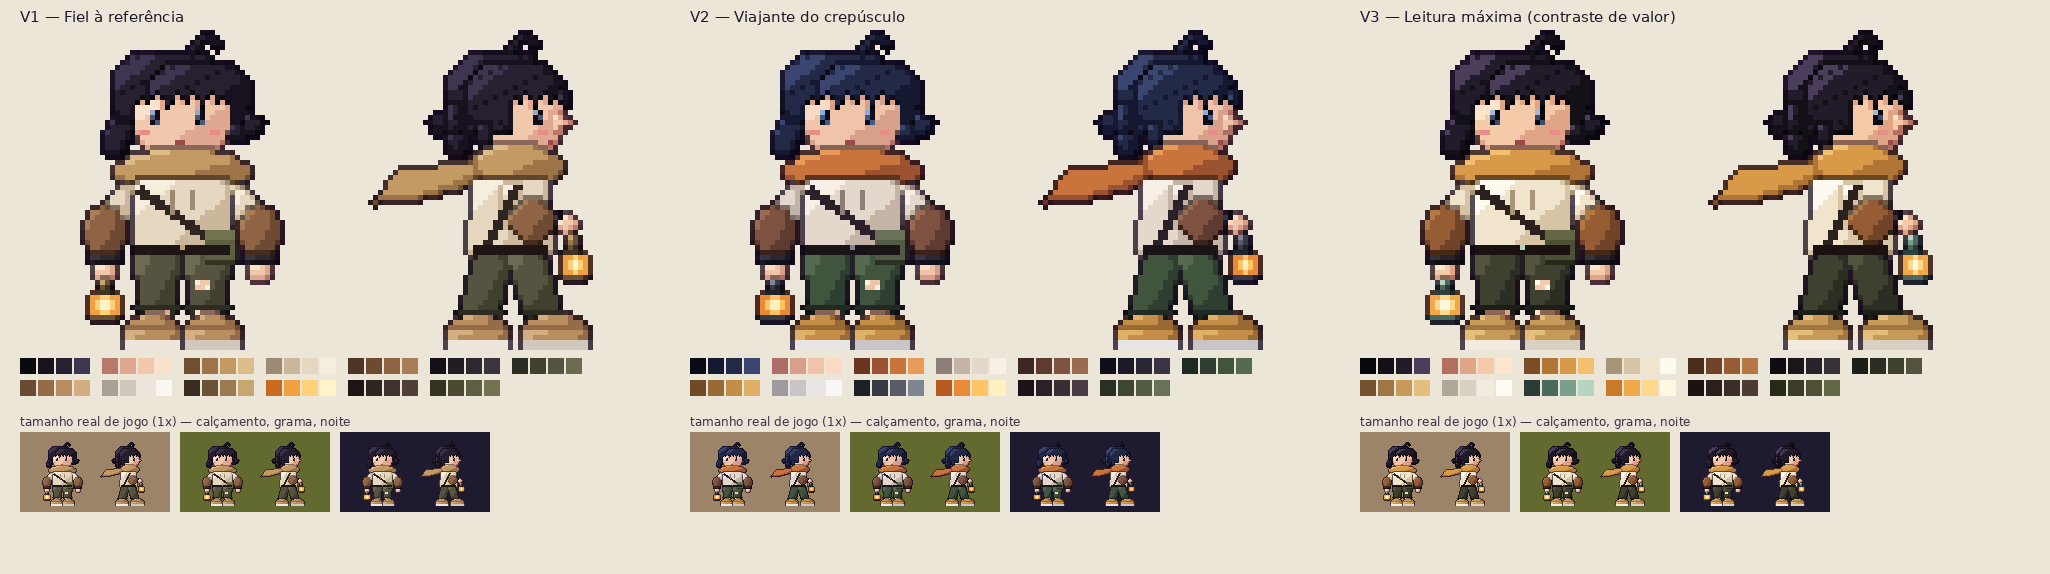
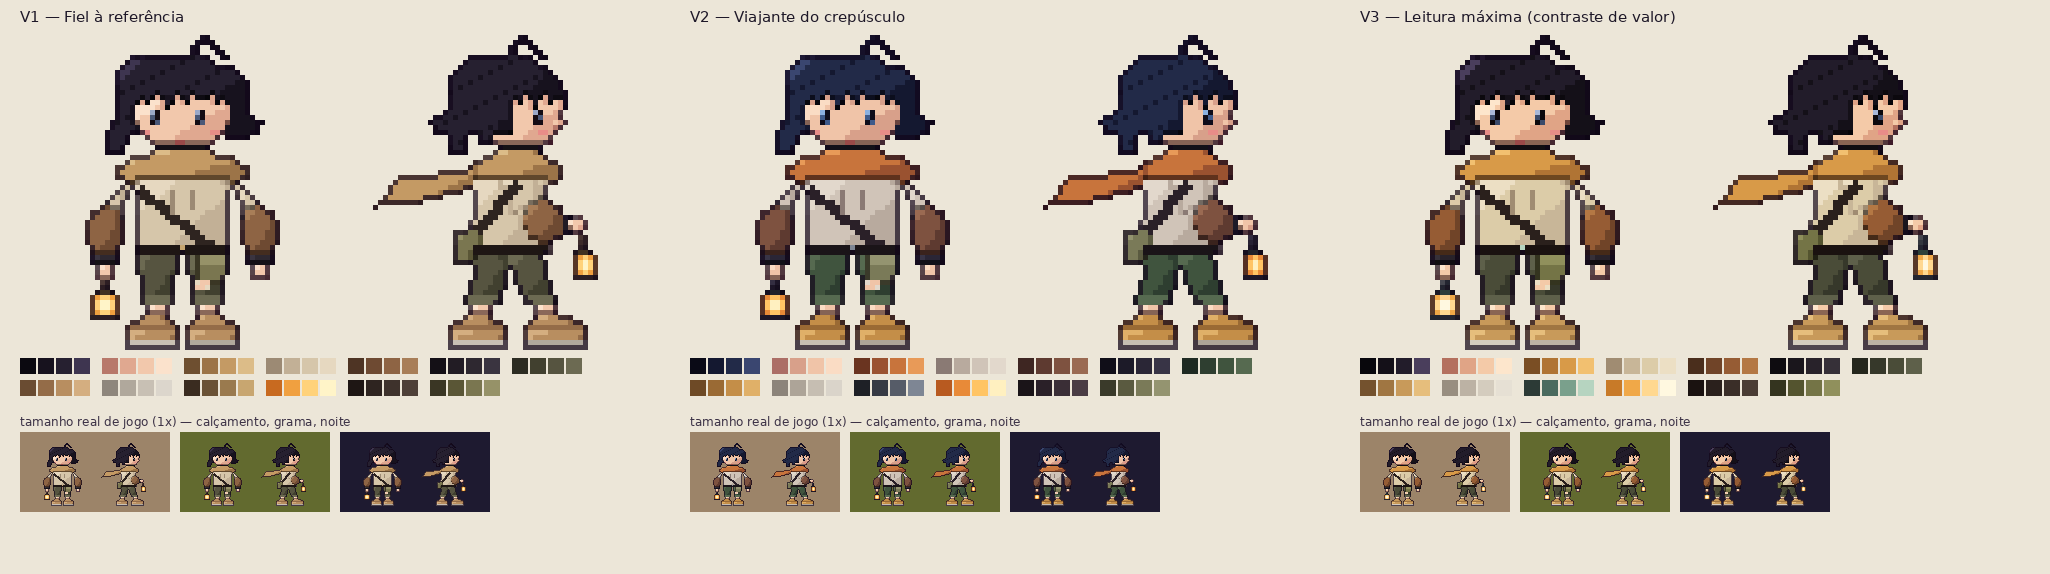
Hero: color concepts v2 (inward outline matches silhouette, turtleneck, side arm, bag, cuffs, open hook strand, lower sweater values)
Claude-Session: https://claude.ai/code/session_01SH8uRb7GcbEgPpRqd4KMaR

diff --git a/assets/characters/hero/concepts/color/concept_color.py b/assets/characters/hero/concepts/color/concept_color.py
@@ -21,30 +21,30 @@ H = lambda h: tuple(int(h[i:i + 2], 16) for i in (1, 3, 5))
 PALETTES = {
     "V1": ("V1 — Fiel à referência", {
         "hair": ["#0b0910", "#17121e", "#262030", "#3e3550"], "skin": ["#b8786a", "#e0a890", "#f2c8ac", "#fbe2cc"],
-        "scarf": ["#6e4f30", "#9c7448", "#c49a64", "#dcbc88"], "sweater": ["#9c8a74", "#cbb89c", "#e6d8c0", "#f6eedd"],
+        "scarf": ["#6e4f30", "#9c7448", "#c49a64", "#dcbc88"], "sweater": ["#9c8a74", "#c2b096", "#d6c6aa", "#e6d8c0"],
         "sleeve": ["#4e3424", "#6e4a32", "#8e6444", "#a87e58"], "cuff": ["#141016", "#221c24", "#2e2830", "#3a3440"],
         "pants": ["#2c2c22", "#41402f", "#565440", "#6c6a52"], "boot": ["#6a4c32", "#946c48", "#b88e60", "#d4ae80"],
-        "sole": ["#a8a094", "#d0c8bc", "#ece6dc", "#fbf8f2"], "metal": ["#3a2c20", "#6a5236", "#9a7a4e", "#c8a670"],
+        "sole": ["#8e867c", "#b0a89c", "#c8c0b4", "#dcd6cc"], "metal": ["#3a2c20", "#6a5236", "#9a7a4e", "#c8a670"],
         "glass": ["#c86a20", "#f0a040", "#ffd27a", "#fff4c8"], "strap": ["#1e1614", "#2e2420", "#3e322c", "#4e4038"],
-        "bag": ["#33331f", "#4a4a30", "#5e5e40", "#727250"],
+        "bag": ["#3a3624", "#5a5636", "#7a7650", "#969268"],
     }),
     "V2": ("V2 — Viajante do crepúsculo", {
         "hair": ["#0a0a16", "#141830", "#222a48", "#3a4670"], "skin": ["#ac6e66", "#d8a08a", "#f0c4a8", "#fadcc4"],
-        "scarf": ["#6a3420", "#9a5230", "#c8743c", "#e89a58"], "sweater": ["#8e7e78", "#c4b4a8", "#e4d8cc", "#f8f0e6"],
+        "scarf": ["#6a3420", "#9a5230", "#c8743c", "#e89a58"], "sweater": ["#8a7a74", "#b8aa9e", "#d0c4b8", "#e2d8cc"],
         "sleeve": ["#3e2622", "#5e3a30", "#7e5240", "#9a6a52"], "cuff": ["#100e18", "#1c1a28", "#2a2636", "#383446"],
         "pants": ["#1e2a22", "#2e3e30", "#40543e", "#566a50"], "boot": ["#6e4a26", "#9a6a34", "#c48e48", "#e0b068"],
-        "sole": ["#9e9aa0", "#c8c4c8", "#e8e4e6", "#f8f6f6"], "metal": ["#1e2026", "#363a44", "#565c68", "#7e8694"],
+        "sole": ["#8c847a", "#ada498", "#c6beb2", "#dad4ca"], "metal": ["#1e2026", "#363a44", "#565c68", "#7e8694"],
         "glass": ["#b85a20", "#e88a38", "#ffc464", "#fff0c0"], "strap": ["#1a1418", "#2a2028", "#3a2e36", "#4a3c44"],
-        "bag": ["#2a3024", "#3e4634", "#525c44", "#687258"],
+        "bag": ["#3a3a2a", "#5a5a40", "#7a7a58", "#949470"],
     }),
     "V3": ("V3 — Leitura máxima (contraste de valor)", {
         "hair": ["#08070c", "#141018", "#221c2a", "#4a3e5c"], "skin": ["#b4705e", "#e0a486", "#f4caa8", "#fde6cc"],
-        "scarf": ["#7a4e24", "#b07434", "#d89a48", "#f2c070"], "sweater": ["#a89478", "#d6c4a4", "#f0e4cc", "#fffaf0"],
+        "scarf": ["#7a4e24", "#b07434", "#d89a48", "#f2c070"], "sweater": ["#a08c72", "#c8b698", "#dccca8", "#ecdfc4"],
         "sleeve": ["#4a2e1c", "#704428", "#965c34", "#b47844"], "cuff": ["#0e0c10", "#1a161c", "#28222a", "#363038"],
-        "pants": ["#1c1e18", "#2c2e24", "#3e4030", "#52543e"], "boot": ["#74522e", "#a07642", "#c89a5a", "#e6be7c"],
-        "sole": ["#b0a898", "#d8d0c2", "#f2ece0", "#fffcf6"], "metal": ["#2c3a36", "#4a6a5e", "#7aa08c", "#b6d4c0"],
+        "pants": ["#24261c", "#36382a", "#4a4c38", "#5e604a"], "boot": ["#74522e", "#a07642", "#c89a5a", "#e6be7c"],
+        "sole": ["#988e80", "#bcb2a4", "#d4ccbe", "#e6e0d4"], "metal": ["#2c3a36", "#4a6a5e", "#7aa08c", "#b6d4c0"],
         "glass": ["#c87a28", "#f0a848", "#ffd890", "#fff8e0"], "strap": ["#1a1210", "#2a201c", "#3a2e28", "#4a3c34"],
-        "bag": ["#26281a", "#3a3c28", "#4e5036", "#646648"],
+        "bag": ["#34341f", "#54542f", "#747446", "#90905c"],
     }),
 }
 EYE = {"V1": ("#140c14", "#4a5878", "#9aa8c8"), "V2": ("#0e0c1a", "#3e5a8a", "#8ab0e0"), "V3": ("#0c080c", "#3a4a6a", "#a8b8d8")}
@@ -69,7 +69,7 @@ def regions(plist, fringe):
         if m == "hair":   # franja: sobre o rosto o cabelo só cobre acima da linha da franja
             for x, fy in fringe.items():
                 mask[fy:, x] &= ~face[fy:, x]
-        mat[mask] = m; pid[mask] = i
+        mat[mask] = m; pid[mask] = 1000 if m == "hair" else i
     return mat, pid
 
 
@@ -105,15 +105,17 @@ def separations(out, mat):
 
 
 def outline(out):
+    """Contorno para DENTRO: os pixels opacos da borda viram o tom escuro do próprio material.
+    Assim a forma em cor é exatamente a silhueta aprovada (vãos e espaço negativo preservados)."""
     a = out[..., 3] > 0
     res = out.copy()
     for y in range(64):
         for x in range(64):
-            if a[y, x]: continue
-            nb = [(y + dy, x + dx) for dy, dx in ((1, 0), (0, 1), (0, -1), (-1, 0)) if 0 <= y + dy < 64 and 0 <= x + dx < 64 and a[y + dy, x + dx]]
-            if nb:
-                c = out[nb[0][0], nb[0][1], :3].astype(float)
-                res[y, x, :3] = np.clip(c * 0.28 + np.array([12, 4, 18]), 0, 255).astype(np.uint8); res[y, x, 3] = 255
+            if not a[y, x]: continue
+            edge = any(not (0 <= y + dy < 64 and 0 <= x + dx < 64) or not a[y + dy, x + dx] for dy, dx in ((1, 0), (0, 1), (0, -1), (-1, 0)))
+            if edge:
+                c = out[y, x, :3].astype(float)
+                res[y, x, :3] = np.clip(c * 0.32 + np.array([12, 4, 18]), 0, 255).astype(np.uint8)
     return res
 
 
@@ -125,19 +127,19 @@ def details(img, view, pal, eye):
             d.rectangle([x0, 16, x0 + 1, 18], fill=H(eye[0])); d.point((x0, 17), fill=H(eye[1])); d.point((x0 + 1, 18), fill=H(eye[1])); d.point((x0, 16), fill=H(eye[2]))
         d.point((31, 22), fill=H(MOUTH)); d.point((32, 22), fill=H(MOUTH))
         d.point((24, 20), fill=H(BLUSH)); d.point((25, 20), fill=H(BLUSH)); d.point((38, 20), fill=H(BLUSH)); d.point((39, 20), fill=H(BLUSH))
-        d.line([(23, 31), (40, 43)], fill=S("strap", 1), width=2)                   # alça: ombro direito → quadril esquerdo
-        d.rectangle([37, 40, 42, 46], fill=S("bag", 2)); d.rectangle([37, 40, 42, 41], fill=S("bag", 3)); d.rectangle([37, 46, 42, 46], fill=S("bag", 0))
+        d.line([(23, 31), (39, 44)], fill=S("strap", 1), width=2)                   # alça: ombro direito → quadril esquerdo
+        d.rectangle([35, 45, 40, 50], fill=S("bag", 0)); d.rectangle([36, 45, 40, 49], fill=S("bag", 2)); d.rectangle([36, 45, 40, 46], fill=S("bag", 3))   # bolsa abaixo do cinto
         d.rectangle([23, 43, 41, 44], fill=S("strap", 0)); d.point((32, 43), fill=S("metal", 3))   # cinto + fivela
         d.line([(30, 32), (30, 36)], fill=S("sweater", 0)); d.line([(34, 32), (34, 35)], fill=S("sweater", 0))   # cordões
         d.rectangle([35, 50, 37, 51], fill=S("skin", 2)); d.point((35, 50), fill=S("sweater", 3)); d.point((37, 51), fill=S("sweater", 3))  # rasgo joelho esq.
-        d.rectangle([23, 55, 31, 55], fill=S("pants", 0)); d.rectangle([33, 55, 41, 55], fill=S("pants", 0))   # barra dobrada
+        d.rectangle([24, 53, 30, 54], fill=S("pants", 3)); d.rectangle([34, 53, 40, 54], fill=S("pants", 3))   # barra dobrada (2 linhas)
         d.rectangle([21, 62, 31, 63], fill=S("sole", 2)); d.rectangle([33, 62, 43, 63], fill=S("sole", 1))
     else:
         d.rectangle([37, 16, 38, 18], fill=H(eye[0])); d.point((38, 17), fill=H(eye[1])); d.point((37, 16), fill=H(eye[2]))
         d.point((40, 22), fill=H(MOUTH)); d.point((38, 20), fill=H(BLUSH)); d.point((39, 20), fill=H(BLUSH))
-        d.line([(33, 31), (27, 42)], fill=S("strap", 1), width=2)
+        d.line([(33, 31), (25, 40)], fill=S("strap", 1), width=2)                   # alça até a bolsa no quadril de trás
         d.rectangle([25, 43, 39, 44], fill=S("strap", 0))
-        d.rectangle([22, 56, 30, 56], fill=S("pants", 0)); d.rectangle([35, 56, 42, 56], fill=S("pants", 0))
+        d.rectangle([24, 53, 29, 54], fill=S("pants", 3)); d.rectangle([35, 53, 40, 54], fill=S("pants", 3))
         d.rectangle([20, 62, 31, 63], fill=S("sole", 2)); d.rectangle([35, 62, 47, 63], fill=S("sole", 1))
     return img
 
@@ -145,7 +147,7 @@ def details(img, view, pal, eye):
 def render(view, key):
     plist = parts.PARTS_S if view == "S" else parts.PARTS_E
     fringe = parts.FRINGE_S if view == "S" else parts.FRINGE_E
-    pal = PALETTES[key][1]
+    pal = dict(PALETTES[key][1]); pal["turtle"] = pal["cuff"]
     mat, pid = regions(plist, fringe)
     out = separations(shade(mat, pid, pal), mat)
     img = Image.fromarray(out)

diff --git a/assets/characters/hero/concepts/hero_D_parts.py b/assets/characters/hero/concepts/hero_D_parts.py
@@ -2,6 +2,7 @@
 A silhueta (concepts/silhouettes/direction_D.py) e o conceito em cor (concepts/color/concept_color.py)
 são gerados daqui — assim nunca divergem.
 
+D v4: gola alta preta, braço do perfil ligado ao ombro, bolsa no quadril de trás, barra+tornozelo de 2 px, fio em gancho aberto.
 D v3 (decisões do usuário + acabamento do crítico):
 - 1A: sem a ponta do cachecol na vista de frente (fica só no perfil/diagonais);
 - fio do topo fora do eixo, curvado e caído para o lado, "desajeitado" (2 px de espessura);
@@ -13,48 +14,52 @@ Formato de cada parte: (material, tipo, dados)
 """
 
 # fio desajeitado: sai do topo fora do centro, sobe 2-3 px e cai para o lado (2 px de espessura)
-STRAND_S = [(34, 4), (35, 4), (34, 3), (35, 3), (35, 2), (36, 2), (36, 1), (37, 1), (38, 1), (38, 2), (39, 2), (39, 3)]   # termina solto sobre o degrau
-STRAND_E = [(32, 4), (33, 4), (32, 3), (33, 3), (33, 2), (34, 2), (34, 1), (35, 1), (36, 1), (36, 2), (37, 2), (37, 3)]
+STRAND_S = [(34, 3), (35, 3), (34, 4), (35, 4), (35, 2), (36, 2), (36, 1), (37, 1), (37, 2), (38, 2), (38, 3), (39, 3), (39, 4), (40, 4), (40, 5), (41, 5)]   # gancho aberto: sobe e cai além da raiz
+STRAND_E = [(32, 3), (33, 3), (32, 4), (33, 4), (33, 2), (34, 2), (34, 1), (35, 1), (35, 2), (36, 2), (36, 3), (37, 3), (37, 4), (38, 4), (38, 5), (39, 5)]
 
 PARTS_S = [
     # cabeça
-    ("skin", "e", [23, 9, 41, 26]),
+    ("skin", "e", [23, 9, 41, 24]),
     ("hair", "rr", [19, 5, 40, 20, 5]), ("hair", "rr", [26, 7, 45, 20, 5]),
     ("hair", "p", [(19, 17), (17, 20), (17, 24), (20, 24), (22, 19)]),
     ("hair", "r", [41, 19, 45, 21]), ("hair", "p", [(45, 16), (48, 18), (47, 20), (45, 20)]),
     ("hair", "px", STRAND_S),
     # cachecol gola-tubo (sem ponta na frente — decisão 1A)
+    ("turtle", "r", [27, 23, 37, 25]),
     ("scarf", "e", [19, 24, 45, 32]),
     # tronco + ombros chanfrados
     ("sweater", "r", [23, 30, 41, 44]),
-    ("sweater", "p", [(23, 30), (20, 31), (17, 34), (21, 34)]), ("sweater", "p", [(19, 32), (21, 32), (21, 37), (17, 37), (17, 34)]),
-    ("sweater", "p", [(41, 30), (44, 31), (47, 34), (43, 34)]), ("sweater", "p", [(43, 32), (45, 32), (47, 34), (47, 37), (43, 37)]),
+    ("sweater", "p", [(23, 30), (20, 31), (17, 34), (20, 34)]), ("sweater", "p", [(19, 32), (20, 32), (20, 37), (17, 37), (17, 34)]),
+    ("sweater", "p", [(41, 30), (44, 31), (47, 34), (44, 34)]), ("sweater", "p", [(44, 32), (45, 32), (47, 34), (47, 37), (44, 37)]),
     # mangas bufantes (marrom), punho (preto), mão
     ("sleeve", "e", [13, 35, 20, 45]), ("cuff", "r", [14, 45, 19, 46]), ("skin", "r", [15, 47, 18, 49]),
     ("sleeve", "e", [44, 35, 51, 45]), ("cuff", "r", [45, 45, 50, 46]), ("skin", "r", [46, 47, 49, 49]),
     # lanterna na mão direita (lado esquerdo da tela)
     ("metal", "r", [16, 50, 17, 51]), ("metal", "r", [15, 52, 18, 52]), ("glass", "r", [14, 53, 19, 56]), ("metal", "r", [14, 57, 19, 57]),
     # pernas
-    ("pants", "p", [(23, 44), (31, 44), (30, 56), (24, 56)]), ("pants", "p", [(33, 44), (41, 44), (40, 56), (34, 56)]),
-    ("skin", "r", [25, 56, 29, 58]), ("skin", "r", [35, 56, 39, 58]),
+    ("pants", "p", [(23, 44), (31, 44), (30, 54), (24, 54)]), ("pants", "p", [(33, 44), (41, 44), (40, 54), (34, 54)]),
+    ("skin", "r", [25, 55, 29, 58]), ("skin", "r", [35, 55, 39, 58]),
     ("boot", "e", [21, 57, 31, 63]), ("boot", "e", [33, 57, 43, 63]), ("boot", "r", [21, 60, 31, 63]), ("boot", "r", [33, 60, 43, 63]),
 ]
 
 PARTS_E = [
-    ("skin", "e", [27, 9, 42, 26]), ("skin", "p", [(41, 16), (44, 18), (41, 20)]),
+    ("skin", "e", [27, 9, 42, 24]), ("skin", "p", [(41, 17), (43, 18), (41, 19)]),
     ("hair", "rr", [20, 5, 40, 20, 6]), ("hair", "rr", [24, 7, 42, 20, 5]),
     ("hair", "r", [20, 19, 23, 24]), ("hair", "r", [26, 19, 28, 22]),
     ("hair", "p", [(20, 15), (16, 18), (17, 20), (20, 20)]), ("hair", "r", [20, 15, 22, 20]),
     ("hair", "r", [42, 12, 43, 15]), ("hair", "px", STRAND_E),
-    ("scarf", "e", [24, 23, 42, 31]), ("scarf", "p", [(25, 26), (10, 28), (5, 34), (14, 33), (26, 30)]),
+    ("turtle", "r", [30, 23, 38, 25]),
+    ("scarf", "e", [24, 24, 42, 32]), ("scarf", "p", [(25, 27), (10, 29), (5, 35), (14, 34), (26, 31)]),
     ("sweater", "p", [(25, 30), (39, 30), (40, 44), (24, 44)]),
-    ("sweater", "r", [31, 31, 34, 35]), ("sleeve", "e", [32, 34, 41, 42]),
-    ("cuff", "r", [41, 37, 42, 39]), ("skin", "e", [42, 37, 45, 40]),
-    ("metal", "r", [44, 41, 45, 43]), ("metal", "r", [43, 44, 46, 44]), ("glass", "r", [43, 45, 47, 48]), ("metal", "r", [43, 49, 47, 49]),
-    ("pants", "p", [(26, 44), (32, 44), (29, 57), (22, 57)]), ("pants", "p", [(31, 44), (38, 44), (42, 57), (36, 57)]),
+    ("bag", "r", [21, 40, 26, 46]),
+    ("sweater", "p", [(31, 30), (37, 30), (39, 35), (33, 36)]), ("sleeve", "e", [35, 34, 43, 42]),
+    ("cuff", "r", [43, 37, 44, 40]), ("skin", "e", [44, 37, 47, 40]),
+    ("metal", "r", [46, 41, 47, 43]), ("metal", "r", [45, 44, 48, 44]), ("glass", "r", [45, 45, 49, 48]), ("metal", "r", [45, 49, 49, 49]),
+    ("pants", "p", [(26, 44), (32, 44), (30, 54), (23, 54)]), ("pants", "p", [(31, 44), (38, 44), (41, 54), (35, 54)]),
+    ("skin", "r", [24, 55, 28, 58]), ("skin", "r", [37, 55, 41, 58]),
     ("boot", "e", [20, 57, 31, 63]), ("boot", "e", [35, 57, 47, 63]), ("boot", "r", [20, 60, 31, 63]), ("boot", "r", [35, 60, 47, 63]),
 ]
 
 # franja: no rosto, o cabelo só cobre acima desta linha (por coluna); no perfil, a parte de trás da cabeça é toda cabelo
-FRINGE_S = {x: 13 + [0, 1, 2, 1, 0, 1, 3, 2, 0, 1, 2, 0, 1, 3, 1, 0, 2, 1, 0][(x - 23) % 19] for x in range(23, 42)}
+FRINGE_S = {x: 13 + [0, 1, 2, 1, 0, 1, 3, 2, 0, 1, 2, 0, 1, 1, 1, 0, 2, 1, 0][(x - 23) % 19] for x in range(23, 42)}
 FRINGE_E = {x: (26 if x < 33 else 13 + [1, 2, 0, 1, 3, 1, 0, 2, 1, 0][(x - 33) % 10]) for x in range(27, 43)}

diff --git a/assets/characters/hero/concepts/silhouettes/direction_D.py b/assets/characters/hero/concepts/silhouettes/direction_D.py
@@ -46,12 +46,12 @@ def main(cast_dir):
         f = fs = ImageFont.load_default()
     d_s, d_e = draw(D_S), draw(D_E)
     d_s.save(os.path.join(HERE, "hero_sil_D_S.png")); d_e.save(os.path.join(HERE, "hero_sil_D_E.png"))
-    c_s, c_e = (Image.open(os.path.join(HERE, "history", "hero_sil_D_%s_v2.png" % v)) for v in "SE")
+    c_s, c_e = (Image.open(os.path.join(HERE, "history", "hero_sil_D_%s_v3.png" % v)) for v in "SE")
     S = 5
     W = 4 * (64 * S + 12) + 60
     b = Image.new("RGBA", (W, 64 * S + 330), (236, 230, 216, 255)); dr = ImageDraw.Draw(b)
-    dr.text((20, 8), "Antes: D v2", fill=(90, 80, 110, 255), font=f)
-    dr.text((20 + 2 * (64 * S + 12) + 30, 8), "Agora: D v3 (sem ponta do cachecol na frente, fio caído para o lado, ombros e mangas)", fill=(30, 24, 40, 255), font=f)
+    dr.text((20, 8), "Antes: D v3", fill=(90, 80, 110, 255), font=f)
+    dr.text((20 + 2 * (64 * S + 12) + 30, 8), "Agora: D v4 (gola alta, fio em gancho, braço do perfil, bolsa, barra)", fill=(30, 24, 40, 255), font=f)
     for i, im in enumerate([c_s, c_e, d_s, d_e]):
         x = 20 + i * (64 * S + 12) + (30 if i > 1 else 0)
         b.alpha_composite(im.resize((64 * S, 64 * S), Image.NEAREST), (x, 32))
